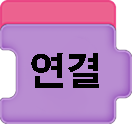
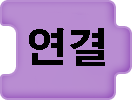
0419 1. 연결 블록 새로 만듬 2. 블록 연결 후 실행 시 오류 수정 3. 연결블록 1번 드랍하면 연겳르록 2번도 자동으로 드랍되로록 수정

diff --git a/lib/puzzle_page.dart b/lib/puzzle_page.dart
@@ -260,7 +260,20 @@ class _PuzzlePageState extends State<PuzzlePage> {
                                   );
                                 }
                                 droppedImages.add(newImage);
-                              });
+
+                                // 'block49.png' 추가 (block48.png의 경우에만 추가)
+                                if (imageIdx == 48) {
+                                  final newImage2 = DraggableImage(
+                                    name: 'images/puzzle/block49',
+                                    path: 'images/puzzle/block49.png',
+                                    position: Offset(newImage.position.dx - 100, newImage.position.dy + 100),
+                                    size: snapshot.data!,
+                                    blockIndex: 49,
+                                  );
+                                  droppedImages.add(newImage2);
+                                }
+                              }
+                              );
                             },
 
                           );
@@ -300,7 +313,9 @@ class _PuzzlePageState extends State<PuzzlePage> {
                                 draggableImage.path,
                                 width: draggableImage.size.width,
                                 height: draggableImage.size.height,
+
                               ),
+
 
                               onDragEnd: (details) {
                                 setState(() {
@@ -397,51 +412,51 @@ class _PuzzlePageState extends State<PuzzlePage> {
                         }
                       }
 
-                      if (currentImage != null && currentImage.blockIndex == 2) {
-                        // 허용된 숫자들의 리스트
-                        List<int> allowedNumbers = [3, 5, 6, 10, 11, 12, 22, 36, 38, 39, 40, 41, 42, 43, 44, 46, 48,49];
 
-                        // 맨 앞의 블럭과 맨 뒤의 블럭을 제외하고, 나머지 블럭들의 순서를 추출합니다.
-                        List<int> blockNumbers = connectedImages.sublist(1, connectedImages.length - 1).map((path) {
-                          return int.parse(path.replaceAll(RegExp(r'\D'), ''));
-                        }).where((number) => number != 48 && number != 49 && number != 38).toList();
+                      if (connectedImages.first == "images/puzzle/block1.png" && connectedImages.last == "images/puzzle/block2.png") {
+                        if (currentImage != null && currentImage.blockIndex == 2) {
+                          List<int> allowedNumbers = [3, 5, 6, 10, 11, 12, 22, 36, 38, 39, 40, 41, 42, 43, 44, 46, 48, 49];
 
-                        List<String> formattedNumbers = [];
-                        int i = 0;
-                        while (i < blockNumbers.length) {
-                          String numberString = '';
-                          while (i < blockNumbers.length && allowedNumbers.contains(blockNumbers[i])) {
-                            numberString += '${blockNumbers[i]}:';
-                            i++;
-                          }
-                          if (numberString.isNotEmpty) {
-                            numberString = numberString.substring(0, numberString.length - 1); // Remove the last ':'
-                            formattedNumbers.add(numberString);
-                          }
-                          while (i < blockNumbers.length && !allowedNumbers.contains(blockNumbers[i])) {
-                            numberString = '';
-                            while (i < blockNumbers.length && !allowedNumbers.contains(blockNumbers[i])) {
-                              numberString += '${blockNumbers[i]}';
+                          List<int> blockNumbers = connectedImages.sublist(1, connectedImages.length - 1).map((path) {
+                            return int.parse(path.replaceAll(RegExp(r'\D'), ''));
+                          }).where((number) => number != 48 && number != 49 && number != 38).toList();
+
+                          List<String> formattedNumbers = [];
+                          int i = 0;
+                          while (i < blockNumbers.length) {
+                            String numberString = '';
+                            while (i < blockNumbers.length && allowedNumbers.contains(blockNumbers[i])) {
+                              numberString += '${blockNumbers[i]}:';
                               i++;
                             }
-                            // 아래 라인을 변경하여 콜론(:)을 추가합니다.
-                            formattedNumbers.add(':[$numberString],');
+                            if (numberString.isNotEmpty) {
+                              numberString = numberString.substring(0, numberString.length - 1); // Remove the last ':'
+                              formattedNumbers.add(numberString);
+                            }
+                            while (i < blockNumbers.length && !allowedNumbers.contains(blockNumbers[i])) {
+                              numberString = '';
+                              while (i < blockNumbers.length && !allowedNumbers.contains(blockNumbers[i])) {
+                                numberString += '${blockNumbers[i]}';
+                                i++;
+                              }
+                              formattedNumbers.add(':[$numberString],');
+                            }
                           }
+
+                          connected_block_numbers = formattedNumbers.join('');
+
+                          RegExp regExp2 = RegExp(r',:');
+                          connected_block_numbers = connected_block_numbers.replaceAllMapped(regExp2, (match) {
+                            return ',';
+                          });
+
+                          // 수정된 connected_block_numbers 문자열을 Bluetooth를 통해 전송하고 출력합니다.
+                          BluetoothHelper.sendData(connected_block_numbers);
+                          print(connected_block_numbers);
                         }
-
-                        connected_block_numbers = formattedNumbers.join('');
-
+                      } else {
                       }
 
-
-
-                      RegExp regExp2 = RegExp(r',:');
-                      connected_block_numbers = connected_block_numbers.replaceAllMapped(regExp2, (match) {
-                        return ',';
-                      });
-                      // 수정된 connected_block_numbers 문자열을 Bluetooth를 통해 전송하고 출력합니다.
-                      BluetoothHelper.sendData(connected_block_numbers);
-                      print(connected_block_numbers);
 
                     },
 
